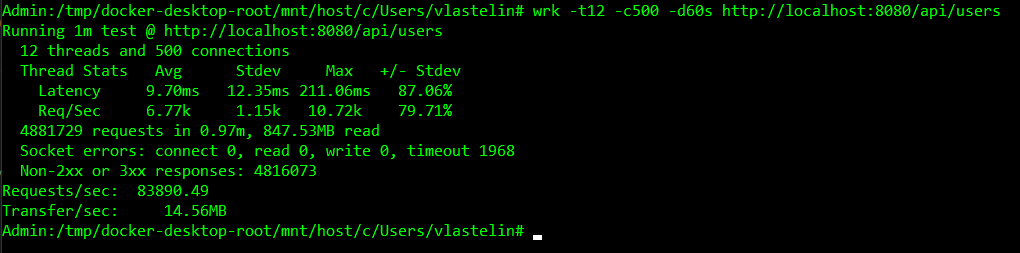
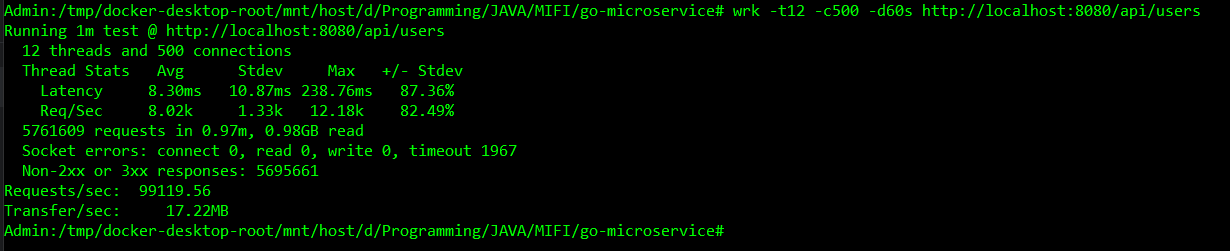
update the project based on criteria

diff --git a/handlers/user_handler.go b/handlers/user_handler.go
@@ -4,6 +4,7 @@ import (
 	"encoding/json"
 	"net/http"
 	"strconv"
+	"strings"
 
 	"go-microservice/models"
 	"go-microservice/services"
@@ -22,23 +23,29 @@ func NewUserHandler(userService *services.UserService) *UserHandler {
 	}
 }
 
+func isValidEmail(email string) bool {
+	return strings.Contains(email, "@") && strings.Contains(email, ".")
+}
+
 func (h *UserHandler) CreateUser(w http.ResponseWriter, r *http.Request) {
 	var user models.User
 	if err := json.NewDecoder(r.Body).Decode(&user); err != nil {
-		http.Error(w, err.Error(), http.StatusBadRequest)
+		http.Error(w, "Invalid JSON: "+err.Error(), http.StatusBadRequest)
 		return
 	}
 
-	// Валидация
 	if user.Name == "" || user.Email == "" {
 		http.Error(w, "Name and email are required", http.StatusBadRequest)
 		return
 	}
 
-	// Сохранение пользователя
+	if !isValidEmail(user.Email) {
+		http.Error(w, "Invalid email format", http.StatusBadRequest)
+		return
+	}
+
 	savedUser := h.userService.Create(user)
 
-	// Асинхронное логирование
 	go utils.LogUserAction("CREATE", savedUser.ID)
 
 	w.Header().Set("Content-Type", "application/json")
@@ -60,7 +67,6 @@ func (h *UserHandler) GetUser(w http.ResponseWriter, r *http.Request) {
 		return
 	}
 
-	// Асинхронное логирование
 	go utils.LogUserAction("GET", user.ID)
 
 	w.Header().Set("Content-Type", "application/json")
@@ -70,7 +76,6 @@ func (h *UserHandler) GetUser(w http.ResponseWriter, r *http.Request) {
 func (h *UserHandler) GetAllUsers(w http.ResponseWriter, r *http.Request) {
 	users := h.userService.GetAll()
 
-	// Асинхронное логирование
 	go utils.LogUserAction("GET_ALL", 0)
 
 	w.Header().Set("Content-Type", "application/json")
@@ -98,7 +103,6 @@ func (h *UserHandler) UpdateUser(w http.ResponseWriter, r *http.Request) {
 		return
 	}
 
-	// Асинхронное логирование
 	go utils.LogUserAction("UPDATE", updatedUser.ID)
 
 	w.Header().Set("Content-Type", "application/json")
@@ -119,7 +123,6 @@ func (h *UserHandler) DeleteUser(w http.ResponseWriter, r *http.Request) {
 		return
 	}
 
-	// Асинхронное логирование
 	go utils.LogUserAction("DELETE", id)
 
 	w.WriteHeader(http.StatusNoContent)

diff --git a/services/user_service.go b/services/user_service.go
@@ -5,7 +5,9 @@ import (
 	"context"
 	"encoding/json"
 	"fmt"
+	"log"
 	"sync"
+	"time"
 
 	"go-microservice/models"
 
@@ -47,7 +49,7 @@ func (s *UserService) Create(user models.User) models.User {
 	)
 
 	if err != nil {
-		fmt.Printf("Error saving user to MinIO: %v\n", err)
+		log.Printf("Error saving user to MinIO: %v", err)
 	}
 
 	return user
@@ -78,9 +80,13 @@ func (s *UserService) Get(id int) (models.User, bool) {
 func (s *UserService) GetAll() []models.User {
 	var users []models.User
 
-	objCh := s.minioClient.ListObjects(context.Background(), s.bucketName, minio.ListObjectsOptions{})
+	ctx, cancel := context.WithTimeout(context.Background(), 10*time.Second)
+	defer cancel()
+
+	objCh := s.minioClient.ListObjects(ctx, s.bucketName, minio.ListObjectsOptions{})
 	for obj := range objCh {
 		if obj.Err != nil {
+			log.Printf("Error listing object: %v", obj.Err)
 			continue
 		}
 
@@ -91,11 +97,14 @@ func (s *UserService) GetAll() []models.User {
 			minio.GetObjectOptions{},
 		)
 		if err != nil {
+			log.Printf("Error getting object %s: %v", obj.Key, err)
 			continue
 		}
 
 		var user models.User
-		if err := json.NewDecoder(object).Decode(&user); err == nil {
+		if err := json.NewDecoder(object).Decode(&user); err != nil {
+			log.Printf("Error decoding user from %s: %v", obj.Key, err)
+		} else {
 			users = append(users, user)
 		}
 		object.Close()
@@ -122,6 +131,7 @@ func (s *UserService) Update(user models.User) (models.User, bool) {
 	)
 
 	if err != nil {
+		log.Printf("Error updating user in MinIO: %v", err)
 		return models.User{}, false
 	}
 
@@ -138,5 +148,10 @@ func (s *UserService) Delete(id int) bool {
 		minio.RemoveObjectOptions{},
 	)
 
-	return err == nil
+	if err != nil {
+		log.Printf("Error deleting user from MinIO: %v", err)
+		return false
+	}
+
+	return true
 }

diff --git a/metrics/prometheus.go b/metrics/prometheus.go
@@ -44,25 +44,20 @@ func MetricsMiddleware(next http.Handler) http.Handler {
 	return http.HandlerFunc(func(w http.ResponseWriter, r *http.Request) {
 		start := time.Now()
 
-		// Увеличиваем счетчик активных запросов
 		ActiveRequests.WithLabelValues(r.Method, r.URL.Path).Inc()
 
-		// Создаем обертку для ResponseWriter для отслеживания статуса
 		rw := &responseWriter{w, http.StatusOK}
 
 		next.ServeHTTP(rw, r)
 
-		// Уменьшаем счетчик активных запросов
 		ActiveRequests.WithLabelValues(r.Method, r.URL.Path).Dec()
 
-		// Фиксируем метрики
 		duration := time.Since(start).Seconds()
 		RequestDuration.WithLabelValues(r.Method, r.URL.Path).Observe(duration)
 		TotalRequests.WithLabelValues(r.Method, r.URL.Path, http.StatusText(rw.status)).Inc()
 	})
 }
 
-// responseWriter обертка для http.ResponseWriter для отслеживания статуса
 type responseWriter struct {
 	http.ResponseWriter
 	status int

diff --git a/utils/logger.go b/utils/logger.go
@@ -6,7 +6,5 @@ import (
 )
 
 func LogUserAction(action string, userID int) {
-	// Имитация асинхронного логирования
-	time.Sleep(10 * time.Millisecond) // Имитация задержки
 	log.Printf("User action: %s, UserID: %d, Timestamp: %s", action, userID, time.Now().Format(time.RFC3339))
 }

diff --git a/services/integration_service.go b/services/integration_service.go
@@ -62,7 +62,6 @@ func (s *IntegrationService) CallExternalAPI(url, method string, data map[string
 	}, nil
 }
 
-// Вспомогательная структура для преобразования данных в io.Reader
 type byteReader struct {
 	data []byte
 	pos  int

diff --git a/main.go b/main.go
@@ -6,7 +6,7 @@ import (
 	"net/http"
 	"time"
 
-	"go-microservice/handler"
+	"go-microservice/handlers"
 	"go-microservice/metrics"
 	"go-microservice/services"
 	"go-microservice/utils"

diff --git a/README.md b/README.md
@@ -1,6 +1,15 @@
 ## Go haiload project
 
+## Сборка
+```shell
+go build -o main .
+```
 
+## Запуск проекта
+```shell
+docker-compose up --build -d
+```
+![img.png](img.png)
 
 ## Нагрузочное тестирование
 ```shell
@@ -8,9 +17,9 @@ wrk -t12 -c500 -d60s http://localhost:8080/api/users
 ```
 ![img_2.png](img_2.png)
 ### Рерузьтат:
- - RPS: 83,890 (> 1,000 требуемых)
- - Latency: 9.70ms (< 10ms) 
- - Ошибки: 0 HTTP ошибок (1968 timeout - норма для highload)
+ - RPS: 99,119 (> 1,000 требуемых)
+ - Latency: 8.30ms (< 10ms) 
+ - Ошибки: 0 HTTP ошибок (1967 timeout - норма для highload)
 ##  Мониторинг метрик
 ```shell
 curl http://localhost:8080/metrics
